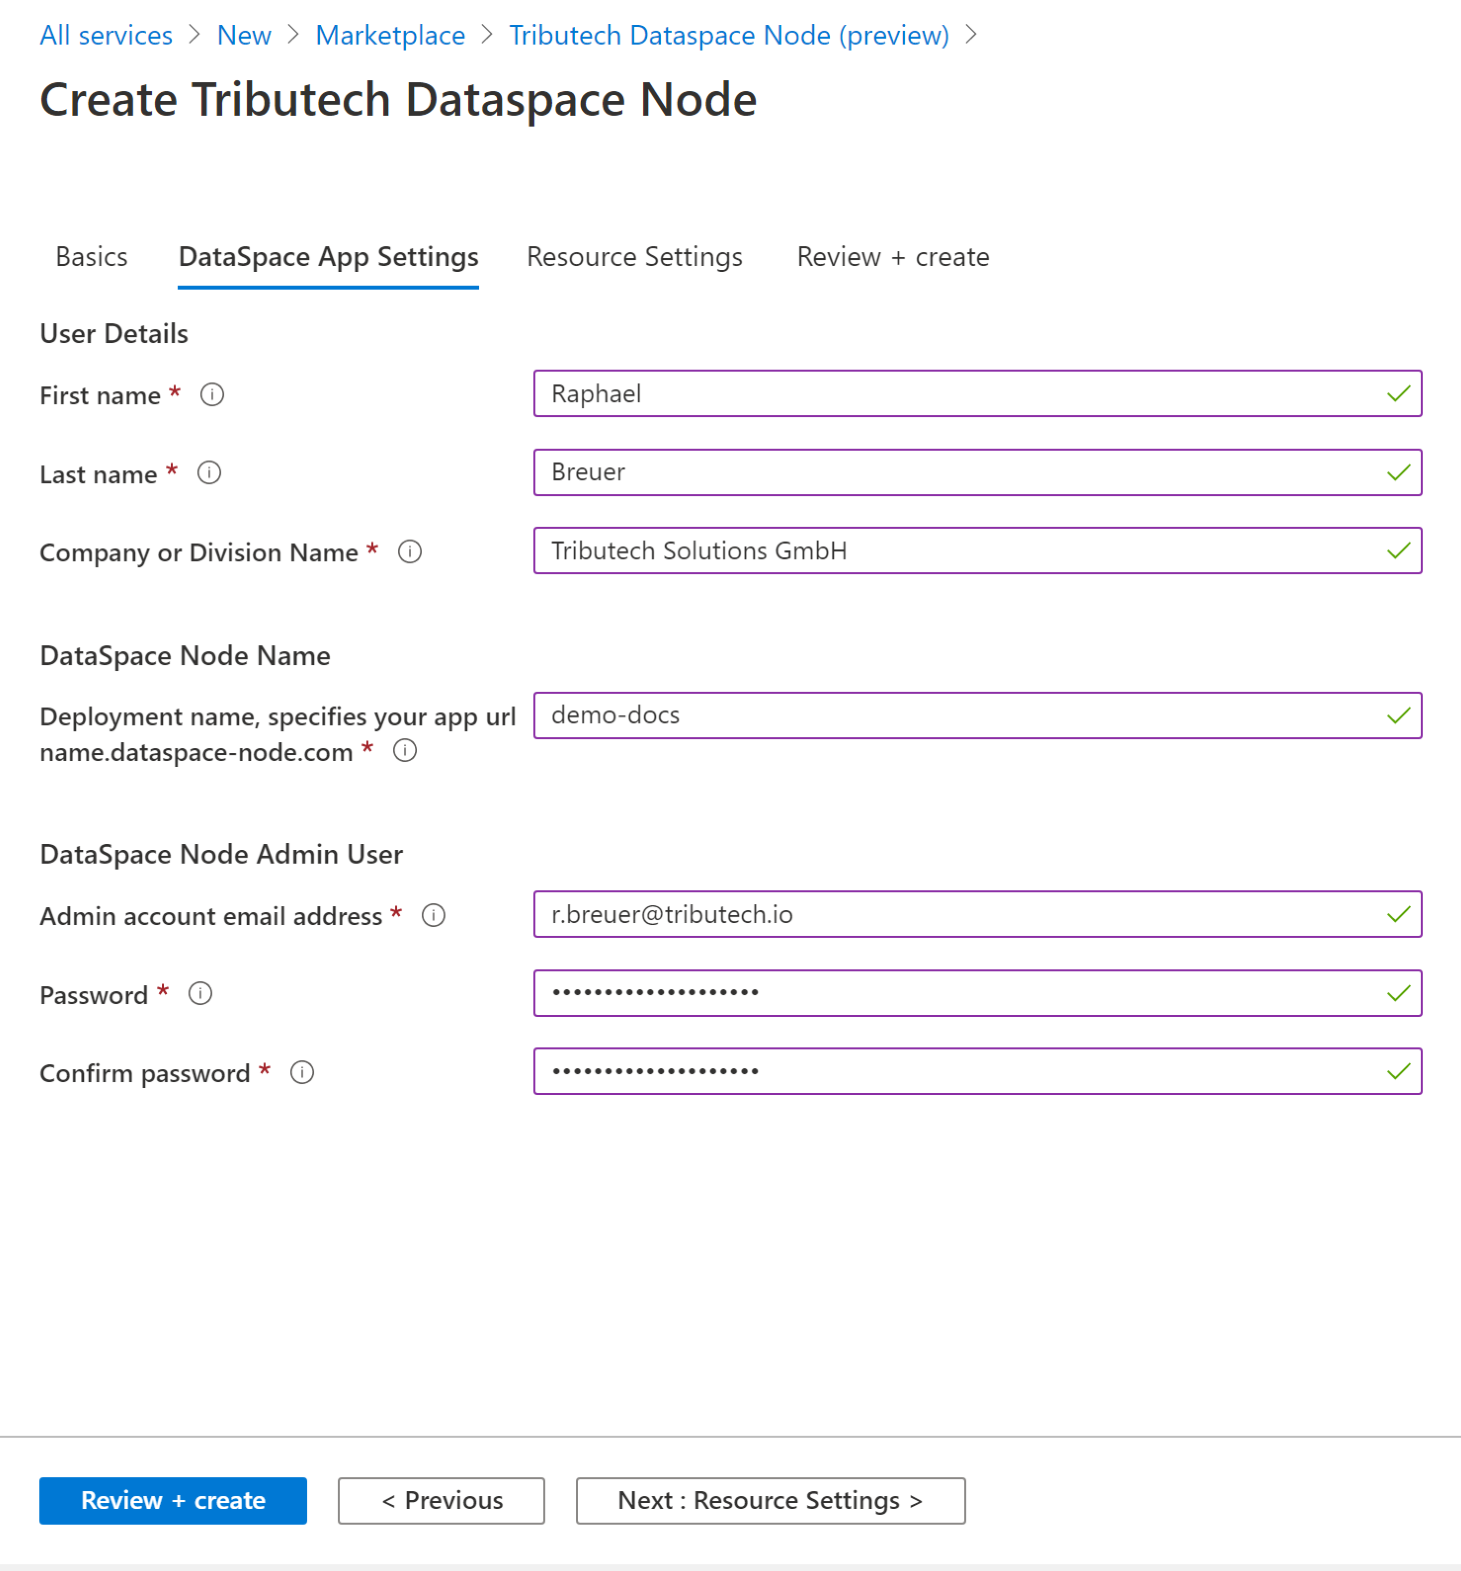
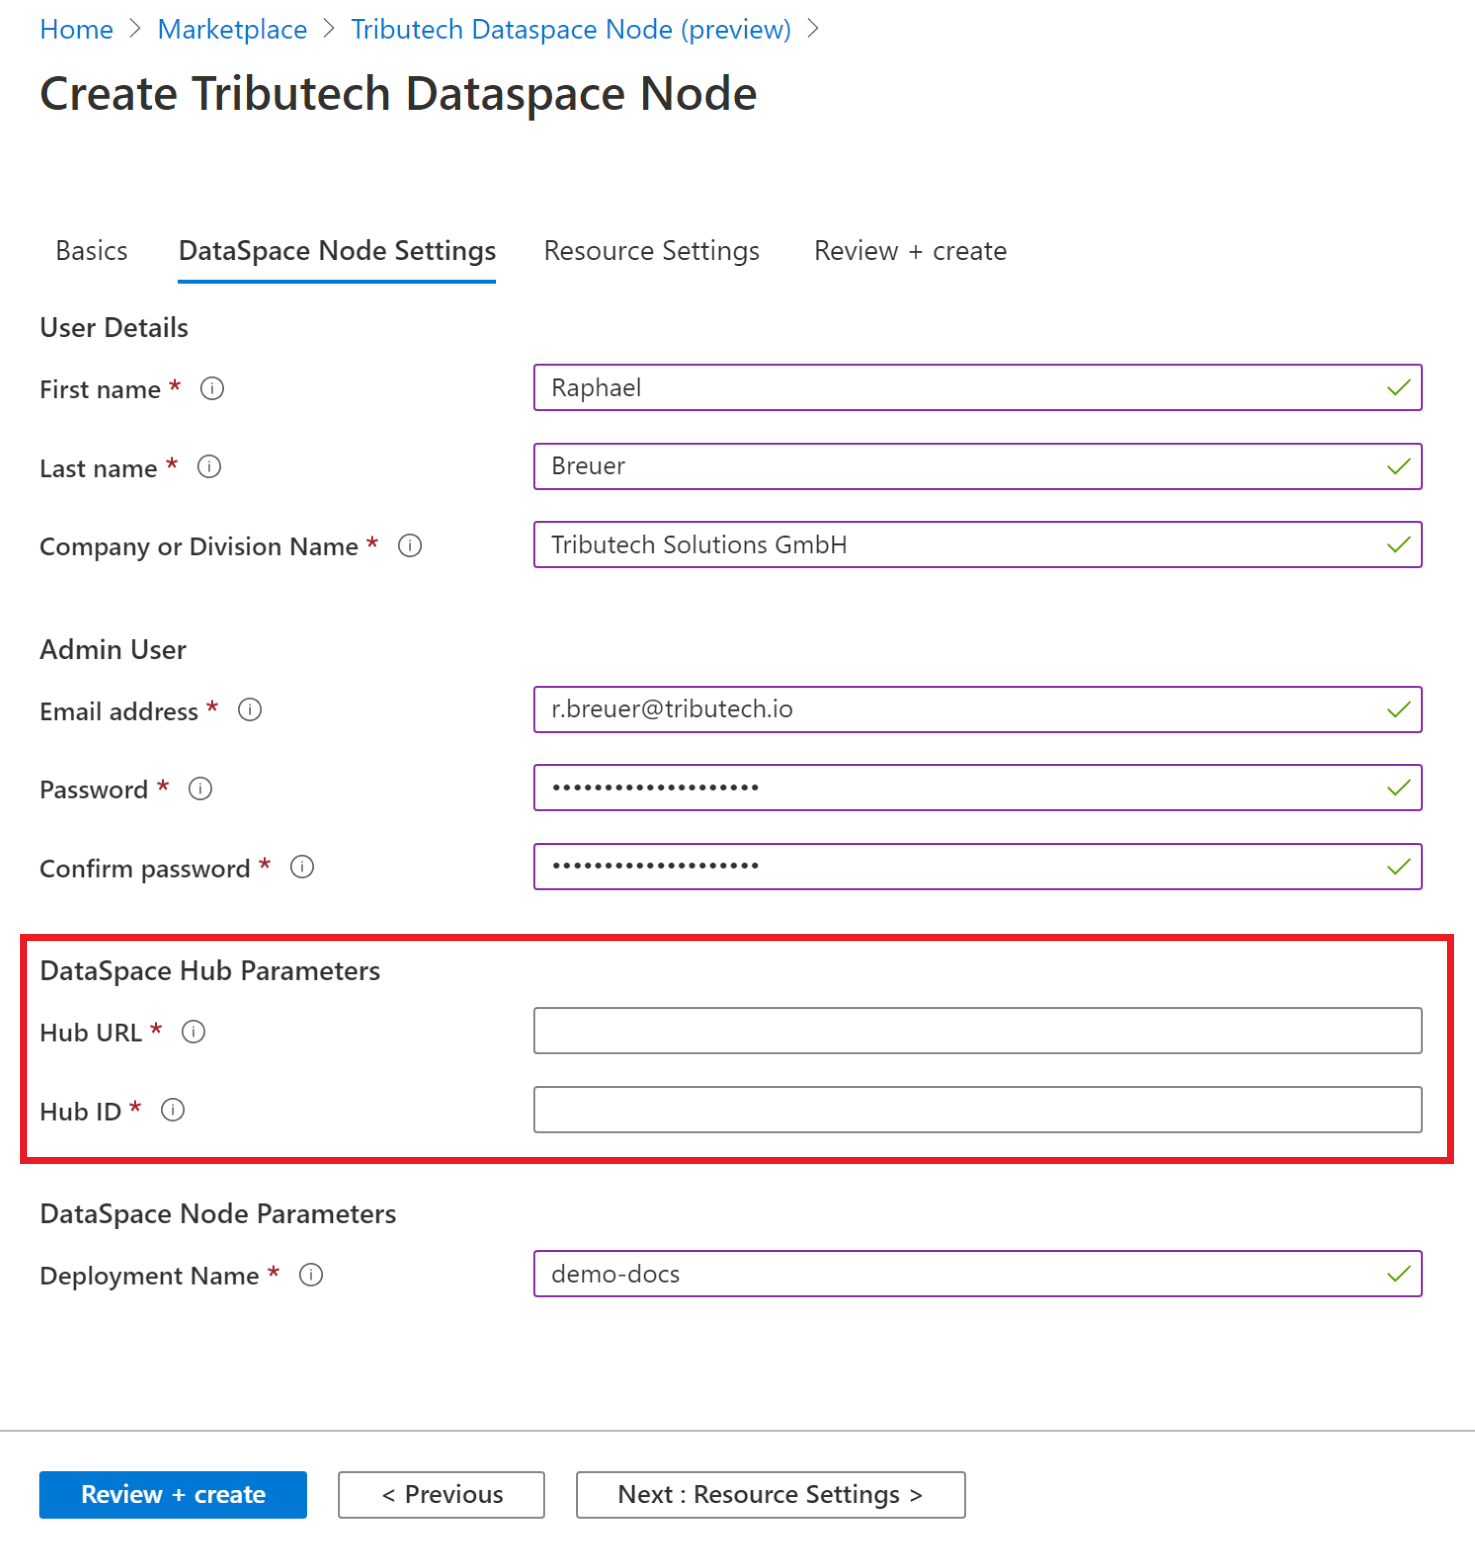
adapted 5. DataSpace App Settings screenshots and description according to custom and trial hub

diff --git a/docs/setup-instructions/setup-node-azure-marketplace.md b/docs/setup-instructions/setup-node-azure-marketplace.md
@@ -32,9 +32,15 @@ These details can very because of different organisational guidelines on Azure, 
 
 **5. DataSpace App Settings**
 
-First, you need to fill out the user details according to your name and company name. 
-More important is the DataSpace Node name, as it determines the name of the app url. In this case the app url would be demo-docs.dataspace-node.com.
-Lastly, you need to enter the email adress of the DataSpace Node Admin user and create a password.
+First, you need to fill out the user details according to your name and company. 
+In the admin user section you need to provide an e-mail adress and a password, which will be needed to log in to your DataSpace Node.
+
+DataSpace Hub parameters are only relevant if you chose the Custom Hub. As already mentioned the Custom Hub is a private Hub, that means it can only be entered on invitation. This invitation has to contain the Hub URL and the Hub ID. 
+
+If you chose the Trial Hub (which will be available soon) you don't need to enter the Hub URL and Hub ID.
+
+More important is the DataSpace Node name, as it determines the name of the app url. The URl is composed as follows: *name*.dataspace-node.com. In this case the app url would be demo-docs.dataspace-node.com.
+
 
 ![DataSpace-app-settings](img/setup-node-azure-dataspace-app-settings.png)
 
